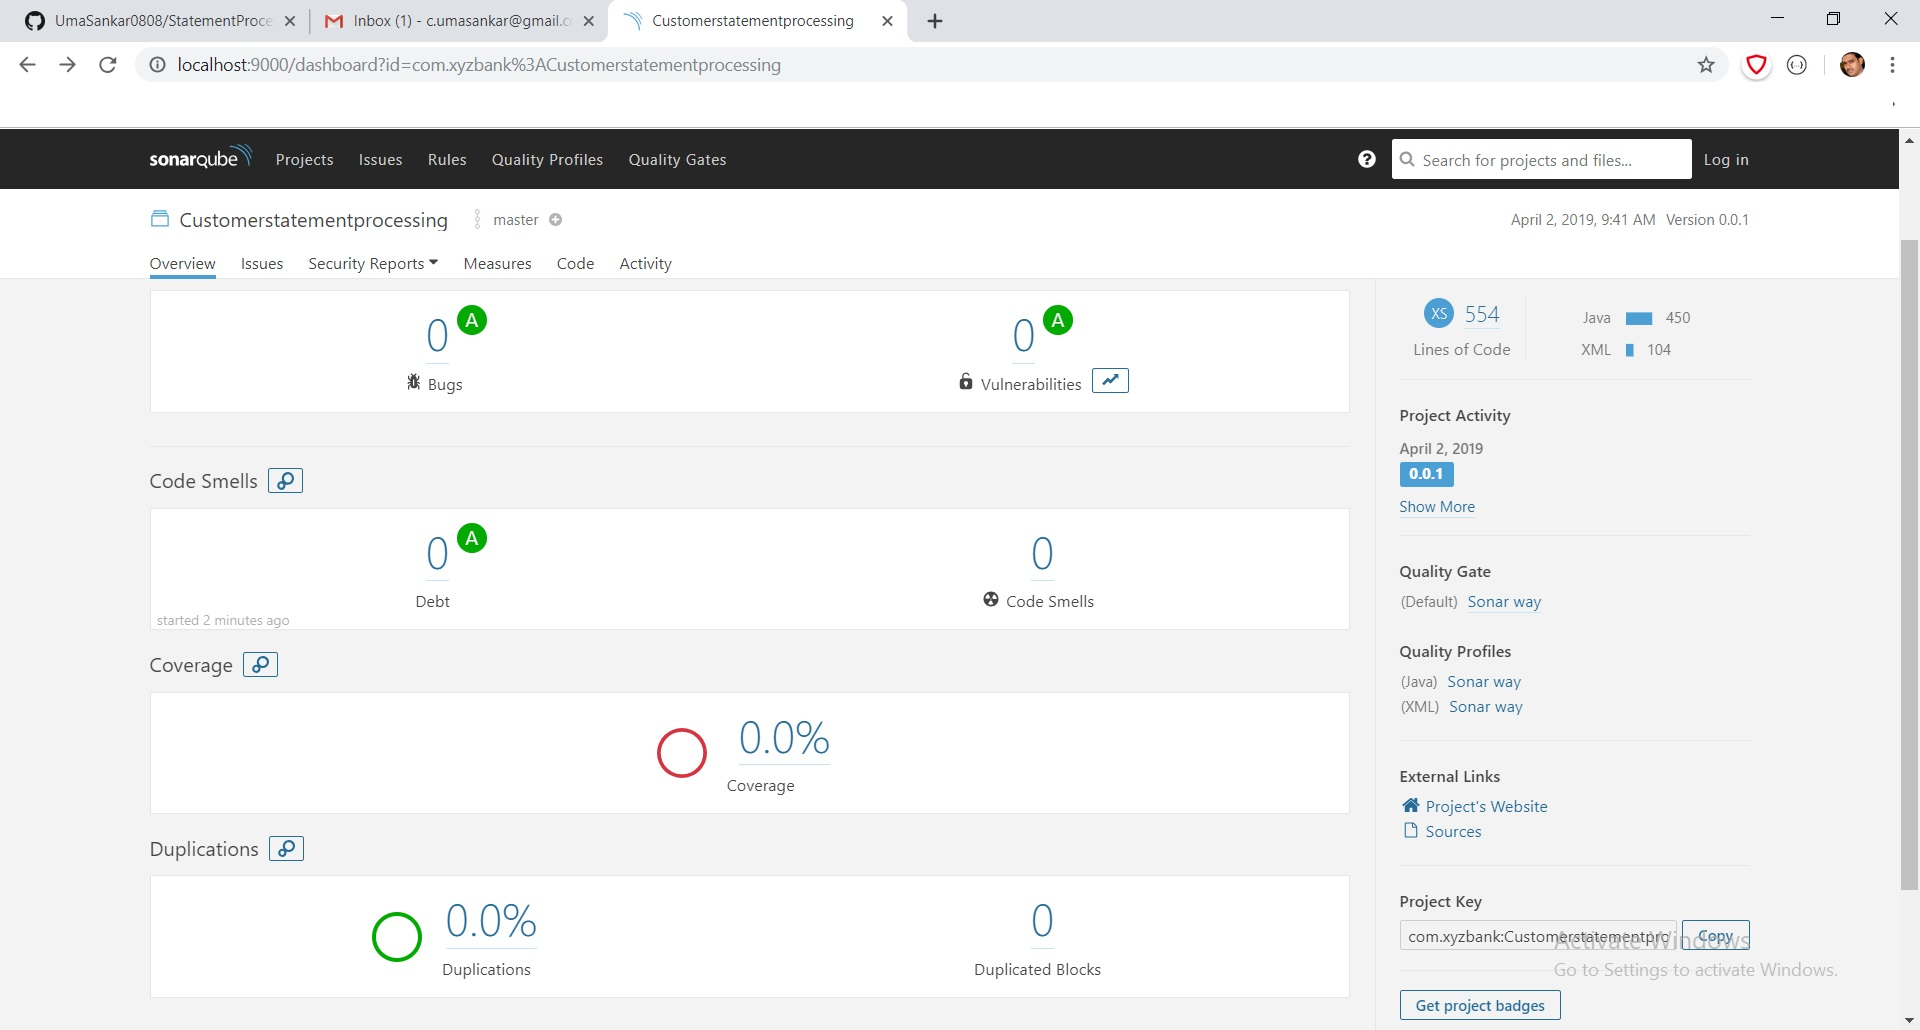
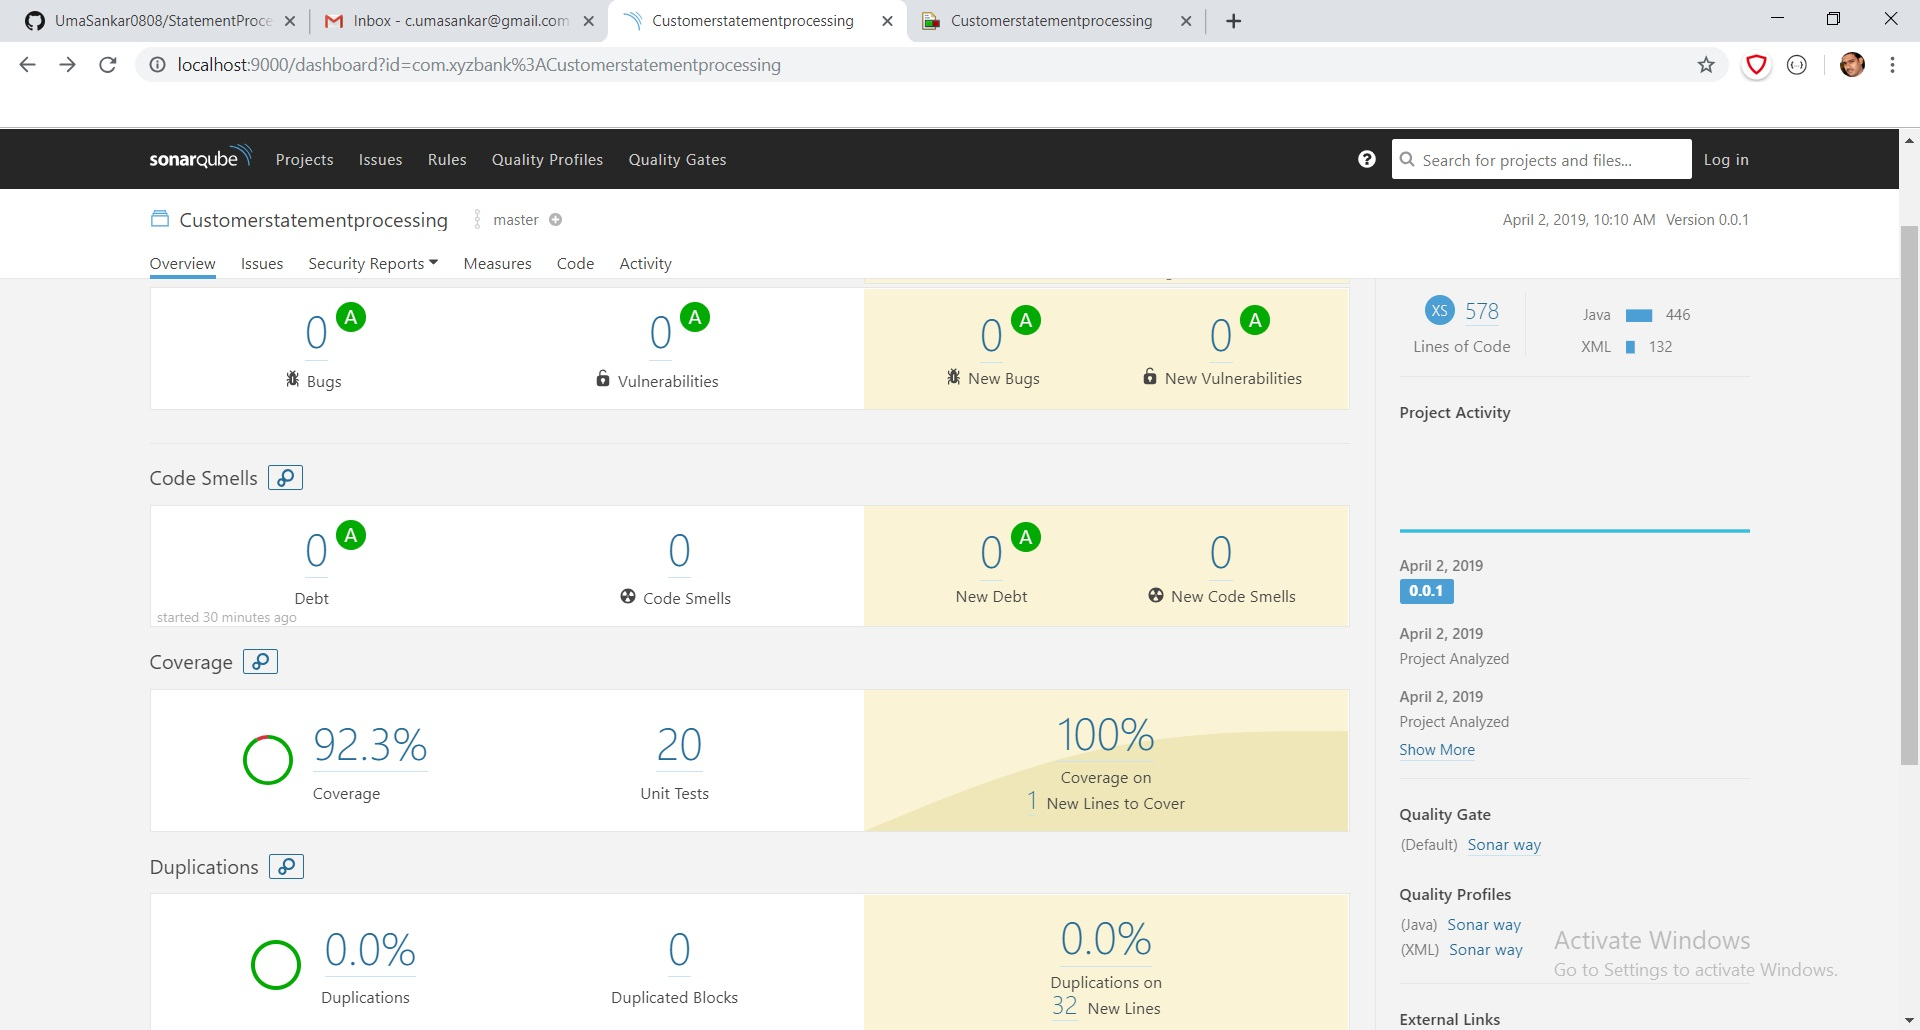
Fixed the issues reported by Jacoco

diff --git a/src/test/java/com/xyzbank/customerstatementrecords/XyzBankFullApplicationTest.java b/src/test/java/com/xyzbank/customerstatementrecords/XyzBankFullApplicationTest.java
@@ -42,6 +42,9 @@ public class XyzBankFullApplicationTest {
 		Files.createDirectories(inputPath);
 		Files.createDirectories(auditPath);
 		Files.createDirectories(processedPath);
+		FileUtils.cleanDirectory(errorPath.toFile());
+		FileUtils.cleanDirectory(auditPath.toFile());
+		FileUtils.cleanDirectory(processedPath.toFile());
 	}
 	
 	@Test

diff --git a/src/main/java/com/xyzbank/customerstatementrecords/configuration/ApplicationConfig.java b/src/main/java/com/xyzbank/customerstatementrecords/configuration/ApplicationConfig.java
@@ -13,10 +13,8 @@ import lombok.Setter;
 public class ApplicationConfig {
 
 	private Integer pollingInterval;
-	private Integer inputCoolingOffPeriod;
 	private String inputFolderPath;
 	private String errorFolderPath;
 	private String processedFolderPath;
 	private String auditFolderPath;
-	private Long prugeFilesPeriodInMillis;
 }

diff --git a/src/main/java/com/xyzbank/customerstatementrecords/transformation/TransformToCustomerStatementRecord.java b/src/main/java/com/xyzbank/customerstatementrecords/transformation/TransformToCustomerStatementRecord.java
@@ -28,7 +28,7 @@ public class TransformToCustomerStatementRecord {
 
 	static {
 		try {
-			jaxbInstance = JAXBContext.newInstance("com.xyzbank.customerstatementrecords.model");
+			jaxbInstance = JAXBContext.newInstance(CustomerStatementRecords.class);
 		} catch (JAXBException exp) {
 			log.error(exp.getMessage(), exp);
 		}

diff --git a/src/main/java/com/xyzbank/customerstatementrecords/model/CustomerStatementRecords.java b/src/main/java/com/xyzbank/customerstatementrecords/model/CustomerStatementRecords.java
@@ -7,10 +7,8 @@ import javax.xml.bind.annotation.XmlAccessorType;
 import javax.xml.bind.annotation.XmlRootElement;
 
 import lombok.Getter;
-import lombok.Setter;
 
 @Getter
-@Setter
 @XmlRootElement(name = "records")
 @XmlAccessorType(XmlAccessType.FIELD)
 public class CustomerStatementRecords {

diff --git a/README.md b/README.md
@@ -32,7 +32,7 @@ To run this project in eclipse lombok.jar needs to be added in eclipse.ini file 
 7. Fork Join Pool size taken as 4 to process 4 files parallelly.
 
 ## How to see the Output:
-1. Input files are kept under the xyzbank/input folder with the above specified naming convention (e.g., records_1554098803818.csv & records_1554098803819.xml)
+1. Input files are already kept under the xyzbank/input folder with the above specified naming convention (e.g., records_1554098803818.csv & records_1554098803819.xml)
 2. Processed files will be available in xyzbank/processed folder in CSV format with the same filename and time stamp.
 3. Error records are separately moved to xyzbank/error folder.
 4. A copy of all the input files are kept under xyzbank/audit folder.
